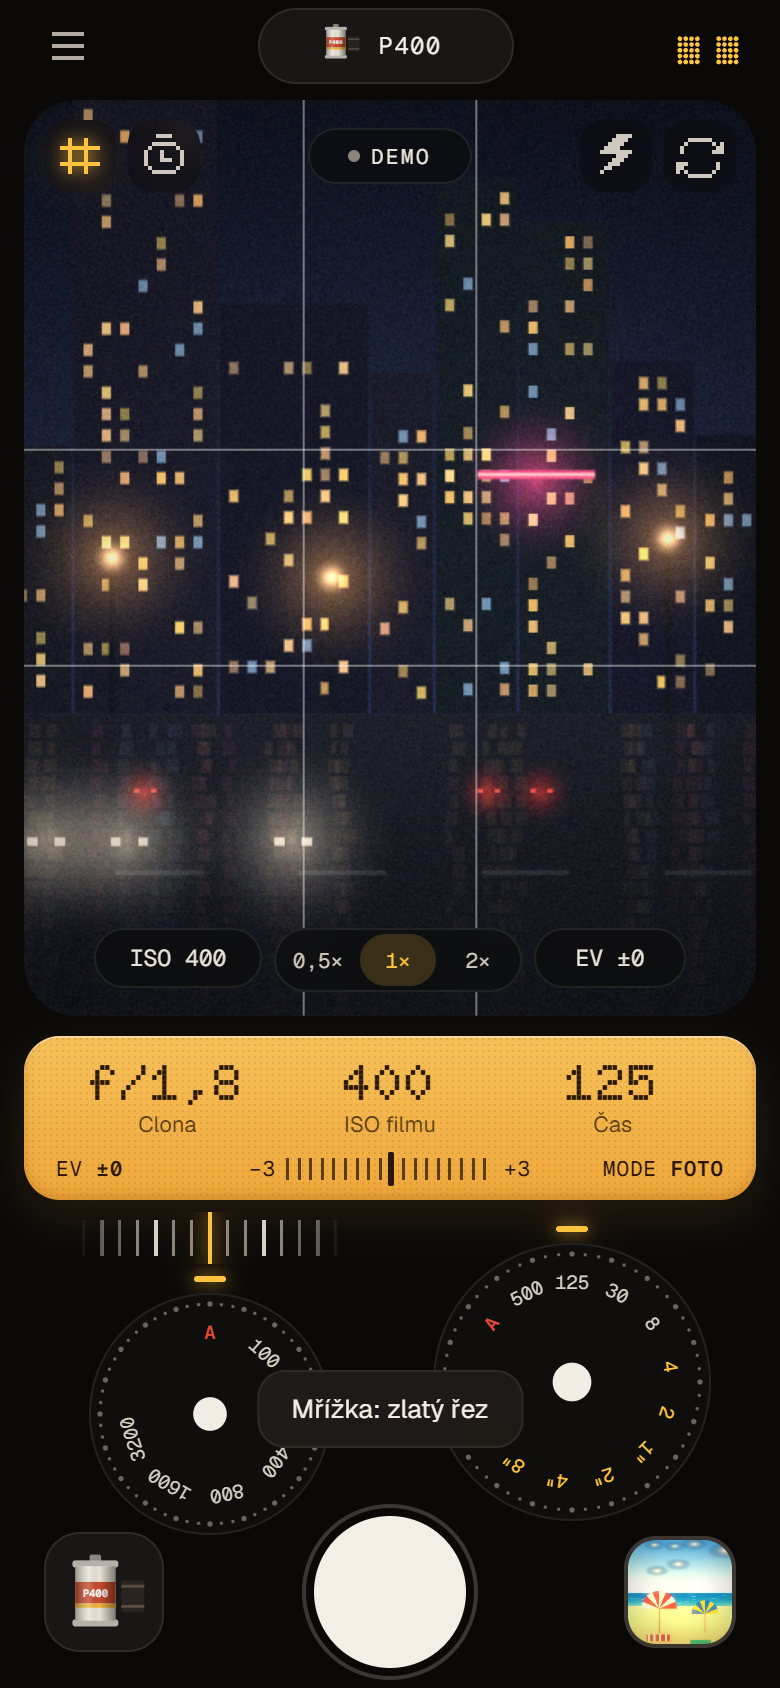
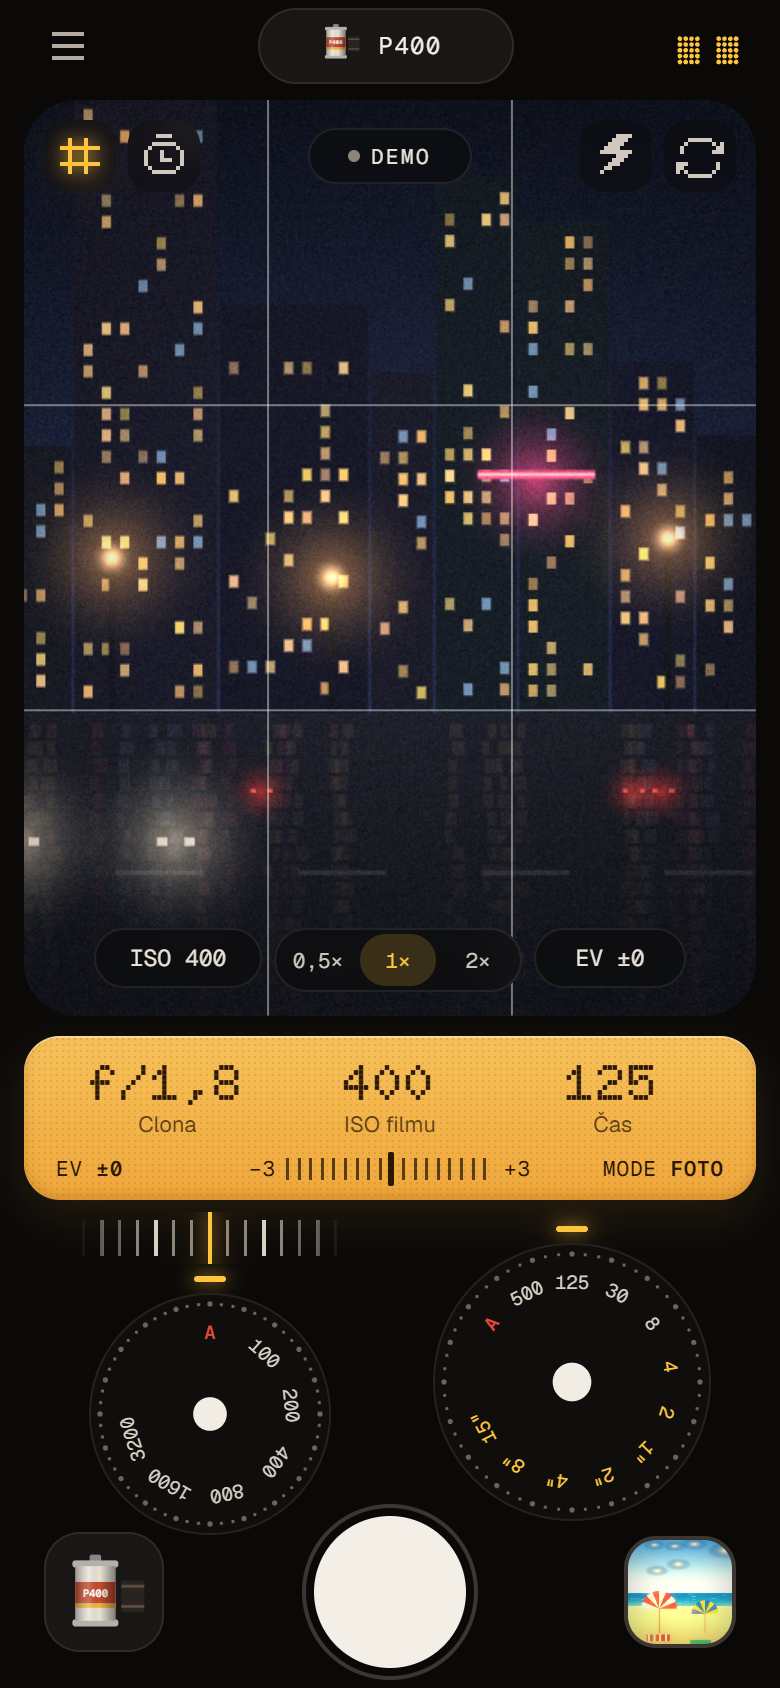
Mřížka zpátky jen na třetiny

diff --git a/docs/preview/index.html b/docs/preview/index.html
@@ -102,7 +102,6 @@ a{color:var(--amber)}
 .gridov{position:absolute;inset:0;width:100%;height:100%;pointer-events:none;opacity:0;transition:opacity .35s}
 .gridov.on{opacity:1}
 .gridov path,.gridov line{fill:none;stroke:rgba(255,255,255,.42);stroke-width:1;vector-effect:non-scaling-stroke}
-.gridov .gold{stroke:rgba(255,196,61,.7)}
 .pills{position:absolute;left:0;right:0;bottom:12px;display:flex;justify-content:center;gap:6px;pointer-events:none}
 .pill{pointer-events:auto;height:30px;padding:0 10px;border-radius:999px;background:rgba(10,9,8,.55);backdrop-filter:blur(10px);-webkit-backdrop-filter:blur(10px);
   font-family:var(--f-mono);font-size:11.5px;display:inline-flex;align-items:center;justify-content:center;gap:5px;color:#e9e2d8;border:1px solid rgba(255,255,255,.08);white-space:nowrap;font-variant-numeric:tabular-nums}
@@ -1274,7 +1273,6 @@ const TIME_STOPS = ['A', '500', '125', '30', '8', '4', '2', '1"', '2"', '4"', '8
 const SLOW_MS = { 5: 250, 6: 500, 7: 1000, 8: 2000, 9: 4000, 10: 8000, 11: 15000 };
 const fmtDur = ms => ms >= 1000 ? ms / 1000 + ' s' : ms === 500 ? '½ s' : '¼ s';
 const SLOW_MODES = ['STOPY', 'POHYB', 'HEDVÁBÍ'];
-const GRID_MODES = ['', 'Zlatý řez', 'Třetiny', 'Zlatá spirála'];
 
 /* =====================================================================
    Router + přechody
@@ -1419,27 +1417,11 @@ function buildCarousel() {
 }
 function openFilmSheet() { sheet($('#filmSheet'), true); requestAnimationFrame(() => $('#carousel')._sync()); }
 
-/* mřížka: zlatý řez, třetiny, zlatá spirála */
+/* mřížka: třetiny */
 function drawGrid() {
-  const svg = $('#gridOv'), vf = $('#vf'), W = vf.clientWidth, H = vf.clientHeight, m = S.grid;
-  svg.setAttribute('viewBox', `0 0 ${W} ${H}`); svg.classList.toggle('on', m > 0);
-  if (!m) return;
-  const lines = f => [f, 1 - f].map(k => `<line x1="${W * k}" y1="0" x2="${W * k}" y2="${H}"/><line x1="0" y1="${H * k}" x2="${W}" y2="${H * k}"/>`).join('');
-  if (m === 1) { svg.innerHTML = lines(.382); return; }
-  if (m === 2) { svg.innerHTML = lines(1 / 3); return; }
-  let x = 0, y = 0, w = W, h = H, d = '', first = true;
-  for (let i = 0; i < 12; i++) {
-    const s = Math.min(w, h); if (s < 2) break; let c, e, start, sq;
-    switch (i % 4) {
-      case 0: sq = [x, y, s]; start = [x + s, y]; c = [x + s, y + s]; e = [x, y + s]; y += s; h -= s; break;
-      case 1: sq = [x, y, s]; start = [x, y]; c = [x + s, y]; e = [x + s, y + s]; x += s; w -= s; break;
-      case 2: sq = [x, y + h - s, s]; start = [x, y + h]; c = [x, y + h - s]; e = [x + s, y + h - s]; h -= s; break;
-      default: sq = [x + w - s, y, s]; start = [x + w, y + s]; c = [x + w - s, y + s]; e = [x + w - s, y]; w -= s;
-    }
-    if (first) { d += `M${start[0]} ${start[1]}`; first = false; }
-    d += `A${s} ${s} 0 0 0 ${e[0]} ${e[1]}`;
-  }
-  svg.innerHTML = `<path class="gold" d="${d}"/>`;
+  const svg = $('#gridOv'), vf = $('#vf'), W = vf.clientWidth, H = vf.clientHeight;
+  svg.setAttribute('viewBox', `0 0 ${W} ${H}`); svg.classList.toggle('on', !!S.grid);
+  svg.innerHTML = [1 / 3, 2 / 3].map(k => `<line x1="${W * k}" y1="0" x2="${W * k}" y2="${H}"/><line x1="0" y1="${H * k}" x2="${W}" y2="${H * k}"/>`).join('');
 }
 
 function shoot() {
@@ -1987,7 +1969,7 @@ function boot2(h) {
   $('#fClose').onclick = () => sheet($('#filmSheet'), false);
   $('#shutter').onclick = shoot;
   $('#galBtn').onclick = () => go('gallery');
-  $('#tGrid').onclick = () => { S.grid = (S.grid + 1) % 4; $('#tGrid').classList.toggle('on', S.grid > 0); drawGrid(); buzz(4); toast(S.grid ? 'Mřížka: ' + GRID_MODES[S.grid].toLowerCase() : 'Mřížka vypnutá'); };
+  $('#tGrid').onclick = () => { S.grid = S.grid ? 0 : 1; $('#tGrid').classList.toggle('on', !!S.grid); drawGrid(); buzz(4); };
   $('#tTimer').onclick = () => { S.timer = S.timer === 0 ? 3 : S.timer === 3 ? 10 : 0; $('#tTimer').classList.toggle('on', S.timer > 0); buzz(4); toast(S.timer ? `Samospoušť ${S.timer} s` : 'Samospoušť vypnutá'); };
   $('#tFlash').onclick = () => { S.flash = !S.flash; $('#tFlash').classList.toggle('on', S.flash);
     toast(!S.flash ? 'Blesk vypnutý' : CAM.live ? (CAM.caps.torch ? 'Blesk: svítilna telefonu' : CAM.facing === 'user' ? 'Blesk: rozsvícený displej' : 'Tenhle prohlížeč svítilnu nepustí') : 'Blesk zapnutý'); };
